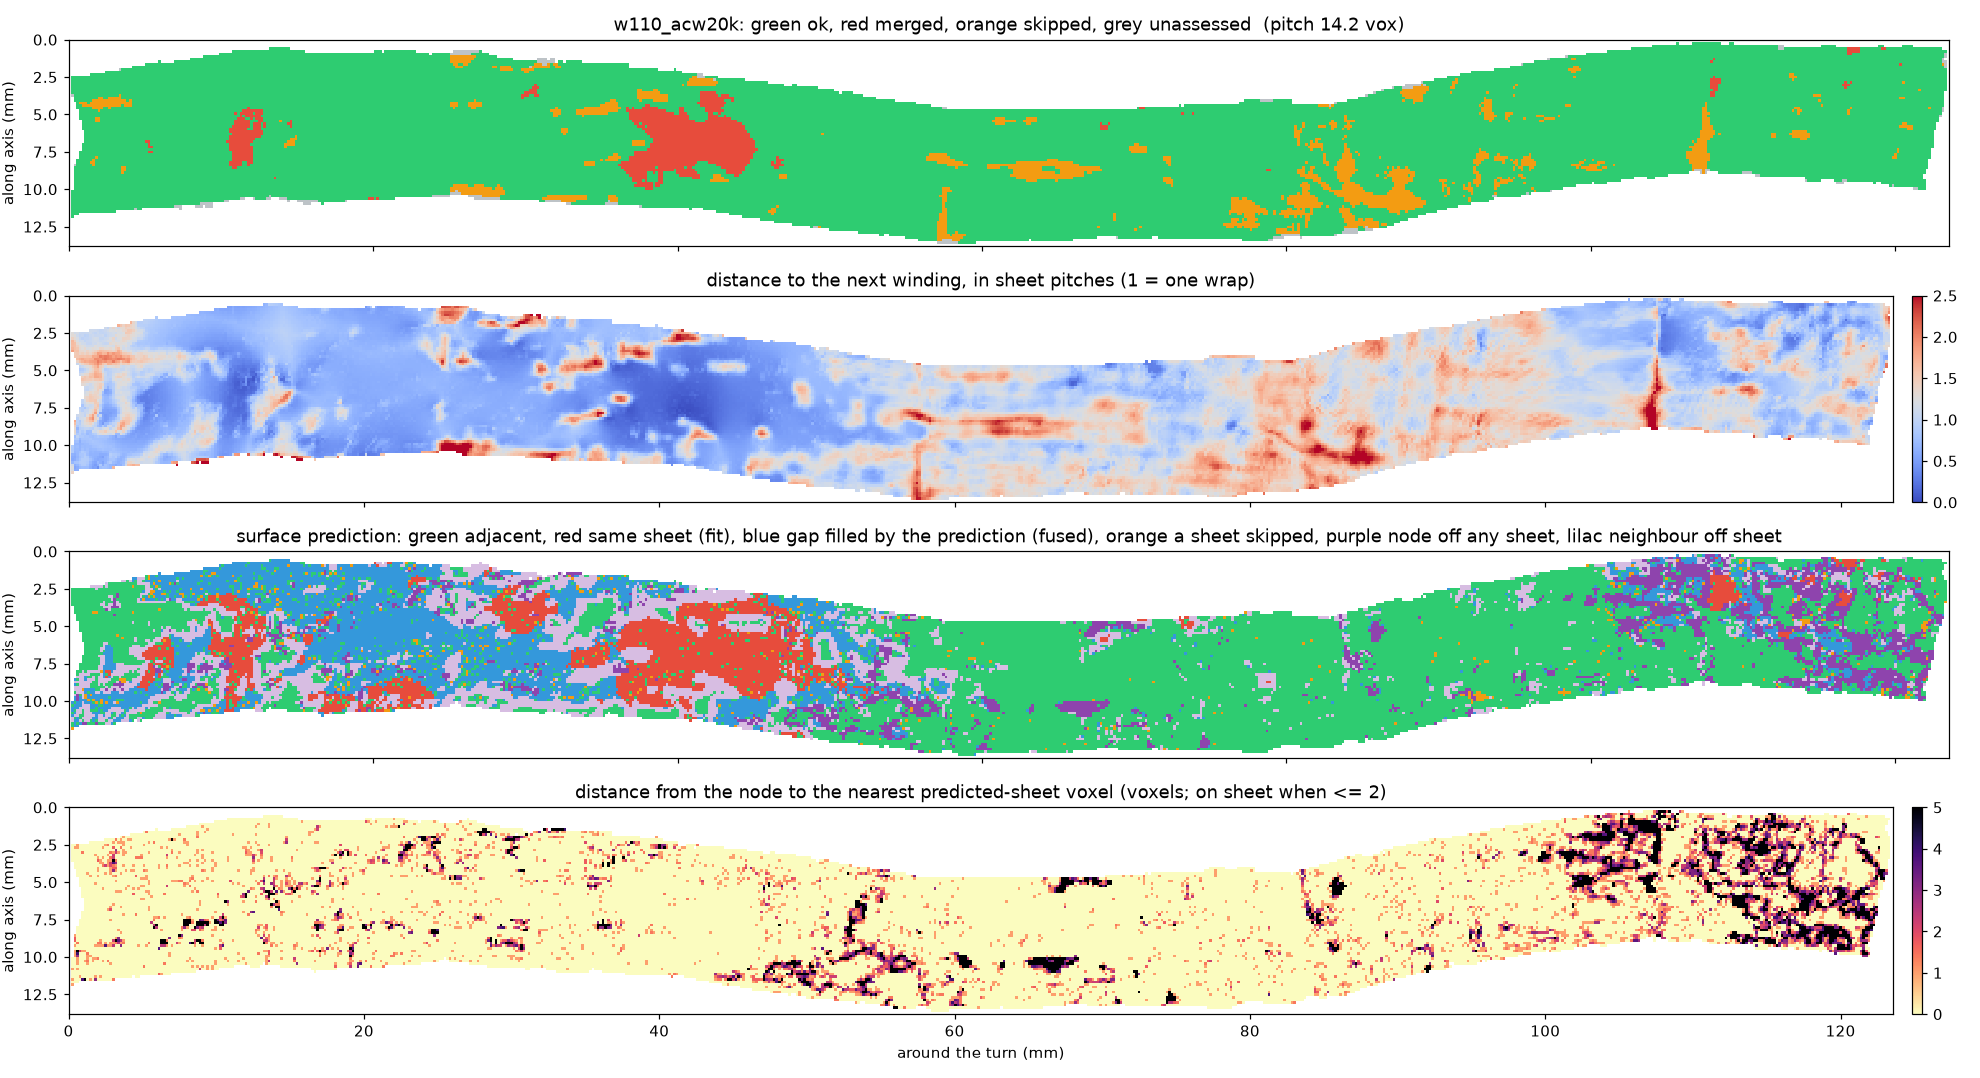
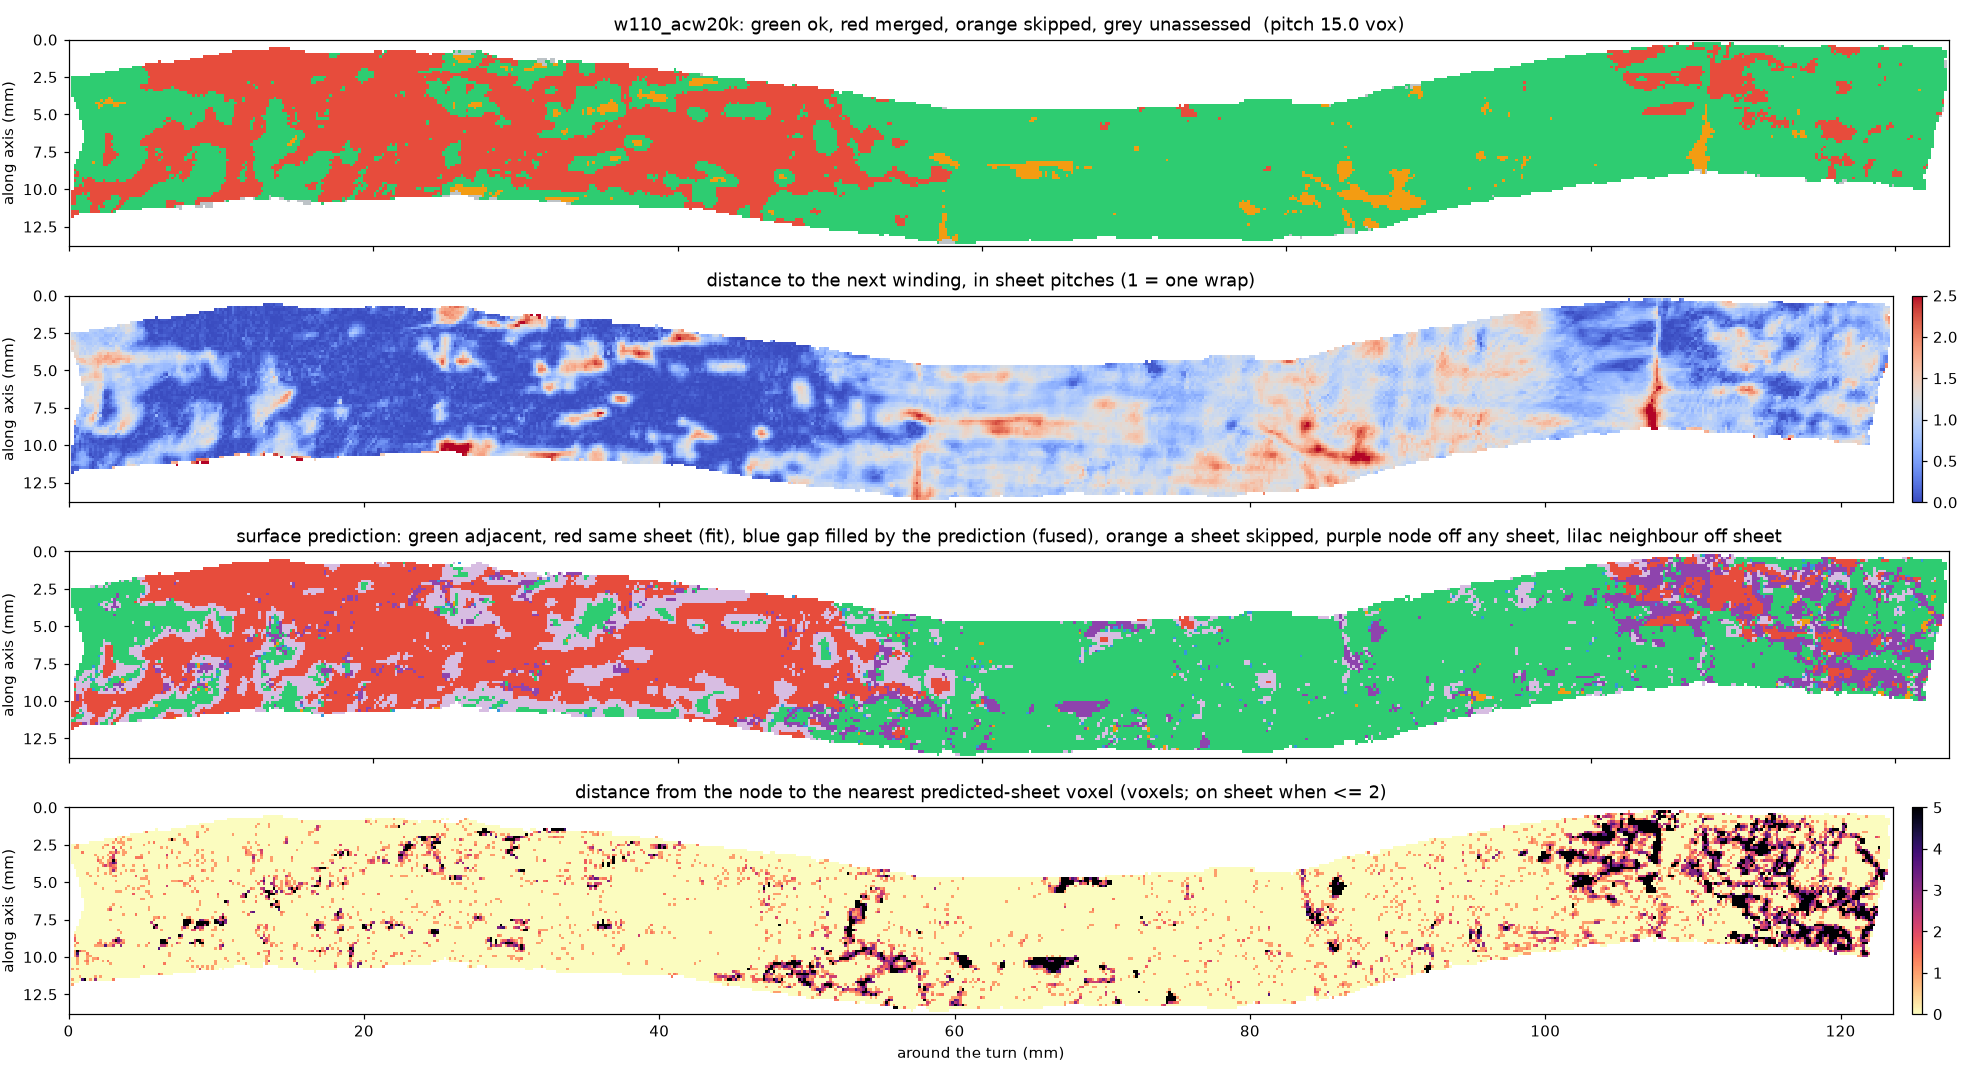
README and figures for v0.3: collapsed windings, control, repair checked against the CT

diff --git a/README.md b/README.md
@@ -3,62 +3,141 @@
 Checks the windings of a spiral fit against each other and against the surface prediction, and says where two
 windings sit on the same sheet, where a wrap was skipped, and where a node is not on a sheet at all.
 
-**Status: 0.1, audit only (12 October 2026).** Repair (re-snapping a flagged region to the right sheet, cutting what
-cannot be repaired) is the next step. Numbers in this README are measurements on real fits and will change.
+**Status: 0.3 (13 October 2026): audit, plus a first repair.** The audit measures, per node, how far each winding
+is from the next one's surface and from the predicted sheets. The repair moves a node that is off any sheet, or
+on a neighbouring winding's sheet, onto the sheet between its two neighbours. Numbers in this README are
+measurements on real fits and will change.
 
 ## Why
 
 Erwin Nieuwlaar's PHerc. 343 First Letters recipe (villa `fit_spiral` → snap onto the surface prediction → lasagna
 flatten → render → ink) is now run by several groups. Its windings are accepted by eye. Nothing checks that winding
 k and winding k+1 lie on different sheets everywhere, or that a winding does not drift onto its neighbour's sheet. A
-winding on the wrong sheet renders the back of the next wrap, and the ink models then read nothing.
+winding on the wrong sheet renders the same papyrus as its neighbour, or the gap between wraps, and the ink models
+then read nothing new.
 
-On our own PHerc. 0175A fit (120 snapped windings, band z 6900–7900), 1–6 % of the nodes of every winding pair are
-within 4 voxels of the next winding (two windings on one sheet) or more than 2.2× the median spacing from it (a wrap
-skipped), worst on the inner windings. This tool makes that visible per node, per winding and per band.
+On our own PHerc. 0175A fit (120 windings, band z 6900–7900, 853 cm² after flattening), 21 % of the nodes lie within
+0.3 sheet pitch of the next winding's surface, and 41 of 119 winding pairs are collapsed onto one sheet over most of
+their area. 15 % of the nodes are on no predicted sheet. Erwin's winning pair shows the same defects, at similar
+rates, mostly outside its letters. This tool makes them visible per node, per winding and per band, and repairs the
+part that a re-snap can repair.
 
 ## What it measures
 
-1. **Neighbour spacing.** Distance from every node of winding k to the nearest node of winding k+1 (KD-tree). The
-   sheet pitch is the pair's median spacing. `merged` = closer than 0.3 × pitch; `skipped` = farther than 1.7 × pitch.
-   Nodes whose nearest neighbour point is on the neighbour's own boundary are `unassessed` (the true nearest point
-   is outside the neighbour's coverage).
-2. **Sheets between.** Along the straight segment from the node to its nearest point on winding k+1, the surface
-   prediction (m7, uint8; binary in the published level-0 stores) is sampled every voxel and thresholded at 128.
-   First each end is checked: a node that is not on any predicted sheet (`node_off_sheet`) is a finding on its own,
-   because a render at that node samples nothing but the gap. When both ends are on a sheet, the number of sheet runs between them gives the verdict: 2 = adjacent
+1. **Neighbour spacing.** Distance from every node of winding k to the *surface* of winding k+1: the nearest node
+   of k+1 at a similar angle around the turn is found first (a KD-tree with the angular position as a fourth axis,
+   so the spiral seam, where the end of one winding meets the start of the next, is not read as a merger), then the
+   node is projected onto the tangent plane of k+1 at that node. Measuring to the nearest *node* instead misses
+   windings that lie on top of each other: on a 20-voxel grid the nearest node can be 10 or more voxels to the
+   side. The sheet pitch is read from the prediction itself, as the median spacing of consecutive predicted sheets
+   along the node normals, so a pair that collapses onto one sheet cannot shrink its own pitch. `merged` = closer
+   than 0.3 × pitch; `skipped` = farther than 1.7 × pitch. A far node whose nearest point is on the neighbour's own
+   boundary is `unassessed` (the true nearest point may be outside the neighbour's coverage).
+2. **Sheets between.** First each end is placed: the exact distance from the node, and from its nearest point on
+   winding k+1, to the nearest voxel of the surface prediction (m7, uint8; binary in the published level-0 stores,
+   thresholded at 128). A node more than `--node-tol` voxels (default 2) from any predicted sheet is `node_off_sheet`,
+   a finding on its own: on Erwin Nieuwlaar's PHerc. 343 windings such nodes sit in a CT trough and render no papyrus
+   (see the positive control below). When both ends are on a sheet, the prediction is sampled every voxel along the
+   straight segment between them and the runs of sheet voxels give the verdict: 2 = adjacent
    wraps, 3+ = a wrap was skipped, 1 = one unbroken run joins them, which is `merged` (both windings on one
    sheet, a fit error) when the neighbour is closer than half a pitch and `fused` (the prediction fills the gap
    between two wraps, a model error in a compressed region) when it is about a pitch away. This separates fit
    errors from prediction errors, which the spacing check alone cannot do.
-3. **Report.** `audit.csv` / `audit.json` with one row per winding pair (pitch, spacing fractions merged / skipped /
-   unassessed, fraction of nodes off any sheet, and among nodes with both ends on a sheet the fractions adjacent /
-   merged / skipped, plus area in cm² when `--voxel-um` is given), `summary.json` for the band, per-pair maps
-   (`maps/<winding>.npz`: distance, flag, verdict, runs on the winding grid), `--grid-figures` (one PNG per winding
-   with the three maps) and `--sections` cross-section PNGs at the requested z (all windings over the prediction
-   slice, coloured green ok / red merged / orange skipped / grey unassessed). The audit is resumable: pairs already
-   written are skipped on a re-run.
+3. **Collapsed pairs.** Each pair's pitch is compared with the local pitch, the mean pair pitch over three pairs
+   either side. Two windings that sit on one sheet all the way round make their own median spacing small, so
+   against their own pitch they look normal; against the local pitch the pair shows as `collapsed` (ratio below
+   0.75), usually next to a `stretched` pair (above 1.25).
+4. **Report.** `audit.csv` / `audit.json` with one row per winding pair (pitch, local pitch and their ratio, spacing fractions merged / skipped /
+   unassessed, fraction of nodes off any sheet and within 1 / 2 / 3 voxels of one, and among nodes with both ends on
+   a sheet the fractions adjacent / merged / fused / skipped, plus area in cm² when `--voxel-um` is given),
+   `summary.json` for the band, per-pair maps (`maps/<winding>.npz`: distance, flag, verdict, runs, node-to-sheet
+   distance on the winding grid), `--grid-figures` (one PNG per winding with the four maps) and `--sections`
+   cross-section PNGs at the requested z (all windings over the prediction slice, coloured by spacing flag and by
+   sheet verdict). The audit is resumable: pairs already written are skipped on a re-run.
 
-## First results (12 October 2026)
+5. **Repair** (`winding-audit repair`). The PHerc. 343 snap moves each node along its normal to the *nearest*
+   predicted sheet within ±15 voxels; with a pitch of 10–20 voxels that can be the next wrap's sheet. The repair
+   uses the neighbours as bounds. Along the node's normal, oriented from winding k−1 to winding k+1, the prediction
+   is sampled over ±2.5 pitches and its sheet runs are listed. A node on its own run (within 2 voxels) that is not a
+   neighbour's run is kept, bit for bit. A node on a run it shares with a neighbour half a pitch or more away is
+   kept too (`kept_shared_run`): the prediction joins the two wraps there and cannot say which node, if any, is
+   wrong. A node off any sheet, or sharing a run with a neighbour closer than half a pitch, moves to the centre of
+   the nearest run strictly between the two neighbours' runs, at most 1.25 pitches away. If there is none, the node
+   stays and is reported `unrepaired`: either the neighbour is the misplaced one (it is moved when its own turn
+   comes), or there is no free sheet between the neighbours. A move larger
+   than 0.4 pitch must agree with at least two neighbouring moves, or it is undone, so the repair cannot pull a
+   spike out of the mesh. Windings are repaired from the inside out, each against its already-repaired inner
+   neighbour, so two windings on one sheet are separated once. Skipped wraps are left alone: every winding after
+   the skip follows it, so no node is misplaced locally; it is a topology error and stays in the audit.
+
+## Results (13 October 2026, v0.3)
 
 Three bands fitted with the PHerc. 343 recipe (villa `fit_spiral` at `0fb38c45`, 20k steps, snapped onto the
-published m7 prediction at level 0), 120 windings each, audited against the same prediction. Fractions are of the
-nodes with both ends on a predicted sheet, except "on no sheet", which is of all assessed nodes.
+published m7 prediction at level 0, then lasagna-flattened), 120 windings each, audited against the same
+prediction after the snap and after the flatten (the flatten output is what gets rendered). Erwin Nieuwlaar's
+released pair is the control. "Off any sheet" and "within 0.3 pitch" are fractions of all assessed nodes; the four
+sheet verdicts are fractions of the nodes with both ends on a predicted sheet. A pair is collapsed when its median
+spacing is under 0.75 of the prediction's sheet pitch.
 
-| band | voxel | area | on no sheet | adjacent | same sheet (fit) | gap filled by prediction | wrap skipped | time |
-|---|---|---|---|---|---|---|---|---|
-| PHerc. 0175A, z 6900–7900 | 8.64 µm | 645 cm² | 22 % | 77 % | 9 % | 11 % | 3 % | 22 min |
-| PHerc. 0813, z 12200–13200 | 9.36 µm | 702 cm² | 42 % | 69 % | 11 % | 10 % | 9 % | 19 min |
-| PHerc. 0800, z 5300–6300 | 8.64 µm | 661 cm² | 35 % | 62 % | 15 % | 18 % | 5 % | 19 min |
+<!-- results-table -->
+| band | stage | area | off any sheet | within 0.3 pitch of the next winding | adjacent | same sheet | gap filled | wrap skipped | collapsed pairs |
+|---|---|---|---|---|---|---|---|---|---|
+| PHerc. 343, w047→w048 (Erwin Nieuwlaar, control) | flatten | 7 cm² | 28 % | 22 % | 61 % | 32 % | 4 % | 2 % | 0 of 1 |
+| PHerc. 0175A, z 6900–7900 | snap | (running) | | | | | | | |
+| PHerc. 0175A, z 6900–7900 | flatten | 853 cm² | 15 % | 21 % | 71 % | 25 % | 1 % | 2 % | 41 of 119 (232 cm²) |
+| PHerc. 0175A, z 6900–7900 | flatten + repair | 853 cm² | 13 % | 20 % | 73 % | 24 % | 1 % | 2 % | 40 of 119 (218 cm²) |
+| PHerc. 0813, z 12200–13200 | snap | (running) | | | | | | | |
+| PHerc. 0813, z 12200–13200 | flatten | (running) | | | | | | | |
+| PHerc. 0800, z 5300–6300 | snap | (running) | | | | | | | |
+| PHerc. 0800, z 5300–6300 | flatten | (running) | | | | | | | |
+<!-- /results-table -->
 
-On PHerc. 0175A the outer windings (w050–w129, pitch ~16 voxels) are 88–95 % adjacent with 2–6 % same-sheet nodes;
-the inner core (w010–w040, pitch 7–11 voxels) is only 13–35 % adjacent, with the rest split between windings on one
-sheet and a prediction that no longer separates the wraps. The 22–42 % of nodes on no predicted sheet are where a
-render samples the gap rather than papyrus.
+- **The main defect is collapsed windings: two consecutive windings on one sheet.** On PHerc. 0175A, 21 % of the
+  flattened nodes are within 0.3 pitch of the next winding's surface, and 41 of 119 pairs (232 cm²) are collapsed
+  over most of their area. Exact point-to-triangle distances to the neighbouring mesh confirm it (w030→w031: 55 % of
+  nodes within 2 voxels; w070→w071: 2 %). Where a pair collapses, every sheet around it still holds one winding, so
+  the band has one winding more than it has sheets there: the fitted spiral slips a turn, and the slip is undone
+  elsewhere around the same turn. Erwin's winning pair has the same defect over 21.5 % of w047, mostly outside the
+  letters (14 % inside the letter area, 24 % elsewhere).
+- **15 % of the flattened nodes are on no predicted sheet.** On the control, such nodes sit in a CT trough: a render
+  there samples the gap between wraps.
+- **The repair moves 3.1 % of the nodes onto a sheet between their neighbours, and the CT confirms the moves.** On
+  three PHerc. 0175A windings that have 66-layer renders, the 811 moved nodes inside the renders go from a mean CT
+  value of 83 at their old position to 104 at the new one (nodes kept on their own sheet: 99). Over the band, nodes
+  off any sheet drop from 15.2 % to 12.7 % and adjacent wraps rise from 71.4 % to 73.2 %. Collapsed windings stay:
+  with both neighbours on the sheets around it, a winding has no free sheet to move to. They need a re-fit, not a
+  re-snap.
 
-![PHerc. 0175A winding w070: flags, distance and sheet verdict on the winding grid](docs/pherc0175a_w070.png)
+![PHerc. 0175A slice z 7400: windings w106–w115 over the prediction; w110 and w111 run on one sheet](docs/pherc0175a_w110_section.png)
 
-![PHerc. 0175A cross-section at z 7400, all windings over the prediction](docs/pherc0175a_z7400.png)
+![PHerc. 0175A w110 → w111 on the winding grid: spacing flags, distance in pitches, sheet verdict, node-to-sheet distance](docs/pherc0175a_w110_flat.png)
+
+![Repair checked against the CT: mean depth profile of kept nodes and of moved nodes at their old and new positions](docs/pherc0175a_repair_ct.png)
+
+![PHerc. 0175A slice z 7400, all flattened windings over the prediction, coloured by sheet verdict](docs/pherc0175a_z7400.png)
+
+## Positive control: Erwin Nieuwlaar's PHerc. 343 windings
+
+The two windings of the awarded PHerc. 343 First Letters image (w047 and w048, z 9500–11000, released by Erwin
+Nieuwlaar as lasagna flatten output on a 20-voxel grid) were audited against the m7 prediction he snapped to
+(`20250521140437-surface-20260413222639-surface-m7-L0-th0.2.zarr`, level 0). The CT under each node was read from a
+66-layer render of his concatenated mesh.
+
+![Erwin's PHerc. 343 windings: CT depth profile by distance to the prediction, and audit verdicts in the letter area](docs/pherc0343_control.png)
+
+- **The off-sheet measure tracks the CT.** Nodes on a predicted-sheet voxel have a sharp papyrus peak 2.5 voxels
+  outward, inside the ink window. Nodes 2–6 voxels from the prediction have a weak peak at the window's edge. Nodes
+  with no predicted sheet within 6 voxels sit in a CT trough about 20 grey levels darker: a render there samples the
+  gap between wraps.
+- **The area where the text was read scores higher.** Inside the letter area of w047 (letters 6–18), 77 % of the
+  nodes with both ends on a sheet are adjacent wraps, 19 % share a sheet with w048, and 17 % of nodes are off any
+  sheet. On the rest of w047 the figures are 56 %, 37 % and 32 %. 16 of the 18 letter centres lie on a
+  predicted-sheet voxel.
+- **A winning pair is not clean everywhere.** 21.5 % of w047's nodes are within 0.3 pitch (4.7 voxels) of w048's
+  surface: 14 % in the letter area, 24 % elsewhere. Exact point-to-triangle distances to the w048 mesh give the same
+  figure (20.6 %). Over the whole pair, 28 % of nodes are off any sheet; of the rest, 61 % are adjacent wraps, 32 %
+  share a sheet with w048, 4 % have the prediction filling the gap and 2 % skip a wrap. The audit is a map of where
+  a winding can be trusted, not a pass or fail for the whole winding.
 
 ## Use
 
@@ -68,8 +147,17 @@ winding-audit audit <dir with w000_<tag>/ ... tifxyz folders> --surface <m7 pred
     --out runs/pherc0175a_band1 --voxel-um 8.64 --sections 7000 7400 7800
 ```
 
+```
+winding-audit repair <band dir> --surface <m7 zarr root> --group 0 --out runs/pherc0175a_band1_repaired \
+    --audit --voxel-um 8.64
+# repaired tifxyz in <out>/windings, per-node shift/status maps, repair.csv, and the audit of the result in <out>/audit
+```
+
 `--surface` is the surface prediction at the same resolution level as the tifxyz coordinates (level 0 voxels for the
-spiral fitter's output). `--no-sheets` runs the spacing check only. The synthetic scroll used by the tests:
+spiral fitter's output). `--no-sheets` runs the spacing check only. `--subdir tifxyz/flatten.tifxyz` reads lasagna
+flatten output, where each winding folder holds its tifxyz one level down. `--node-tol` sets how far (voxels) a
+node may be from a predicted sheet and still count as on it; the per-node distance is in the maps either way.
+The synthetic scroll used by the tests:
 
 ```
 winding-audit synthetic demo --merge 1 1.0 2.0 --skip 4 3.5 4.5
@@ -82,11 +170,16 @@ pytest tests
 - Input windings are tifxyz folders as written by villa's spiral fitter / snap (x.tif, y.tif, z.tif, meta.json;
   -1 = no node), one folder per winding named `w<NNN>…`. Consecutive winding numbers are assumed to be consecutive
   wraps.
-- The pitch is estimated per pair from the data; a pair whose majority is wrong (every node merged) would get a wrong
-  pitch. The sheet count does not depend on the pitch and catches that case.
-- Nodes are compared to the neighbour's nearest *node*, not its interpolated surface, so distances carry up to half a
-  grid step of error (10 voxels at the default 20-voxel grid); the flags use wide margins (0.3× and 1.7× pitch).
-- Agreement with the surface prediction is agreement with a model, not with the papyrus.
+- The pitch comes from the prediction's sheet spacing (median over 2,000 sampled nodes per winding). Missed sheets
+  in the prediction make it slightly long (on PHerc. 0175A, 14–17 voxels against 12–13 for clean winding pairs).
+  Without a prediction (`--no-sheets`) the pair's own median spacing is used and collapsed pairs are judged against
+  the mean of the neighbouring pairs.
+- The neighbour's surface is its tangent plane at the nearest node, not the exact mesh. Checked against exact
+  point-to-triangle distances on PHerc. 0175A: within 1 voxel for about 90 % of nodes.
+- Collapsed windings are reported, not repaired: separating them means moving every later winding by one sheet in
+  that sector, which is a re-fit.
+- Agreement with the surface prediction is agreement with a model, not with the papyrus. The CT checks in this
+  README cover the control pair and three rendered PHerc. 0175A windings only.
 
 ## Credits
 
